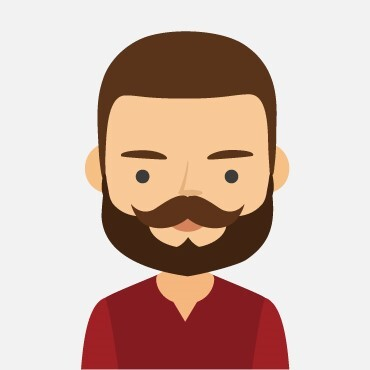
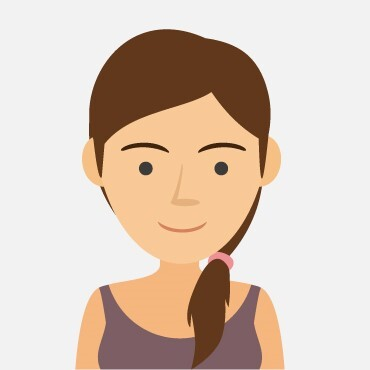
- Swapping avatar_io and avatar_8 img. - Create Properties in data to get user details, and insert them into HTML. - Fix search bar extending its width to 100%.

Changed region(s): [[0.1784, 0.0595, 0.8027, 1.0], [0.327, 0.3865, 0.4757, 0.5054]]

diff --git a/Milestone_2/index.html b/Milestone_2/index.html
@@ -20,9 +20,9 @@
             <div id="sidebar_header">
                 <div class="user">
                     <div class="contact_img">
-                        <img src="./assets/Img/avatar_8.jpg" class="user_img" alt="">
+                        <img :src="userImg" class="user_img" alt="">
                     </div>
-                    <div class="username">Sandro</div>
+                    <div class="username">{{username}}</div>
                 </div>
 
                 <div class="controls color_darkgrey">
@@ -49,7 +49,7 @@
             <div class="search_section bg_grey">
                 <div class="searchbar bg_white">
                     <i class="fas fa-search color_grey"></i>
-                    <input type="text" id="search" placeholder="Cerca o inizia una nuova chat">
+                    <input class="search" type="text" id="search" placeholder="Cerca o inizia una nuova chat">
                 </div>
             </div>
             <!-- /Search_Contact -->

diff --git a/Milestone_2/assets/js/main.js b/Milestone_2/assets/js/main.js
@@ -2,6 +2,10 @@ const root = new Vue({
     el:"#root",
 
     data:{
+        username: "Sandro",
+        userImg: "./assets/img/avatar_io.jpg",
+        visible: true,
+        
         contacts: [
             {
                 name: 'Michele',

diff --git a/Milestone_2/assets/css/style.css b/Milestone_2/assets/css/style.css
@@ -124,6 +124,9 @@ input:focus-visible {
     display: flex;
     align-items: center;
 }
+.search {
+    width: 100%;
+}
 .searchbar > i {
     margin: 0 10px;
 }
